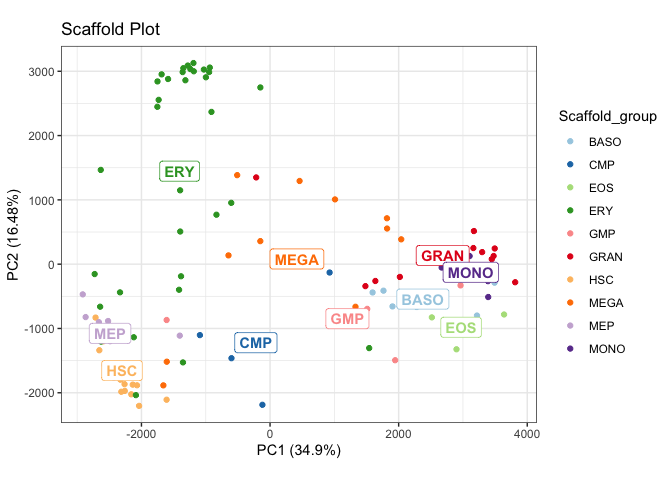
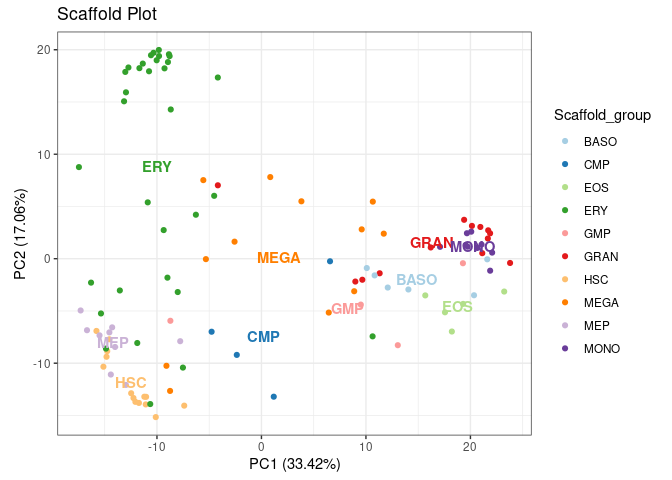
Update rank-scaling and documentation. Move uwot to suggests

diff --git a/README.md b/README.md
@@ -18,7 +18,12 @@ experimental](https://img.shields.io/badge/lifecycle-experimental-orange.svg)](h
 if (!require("BiocManager", quietly = TRUE))
     install.packages("BiocManager")
 
-BiocManager::install(c("SummarizedExperiment", "S4Vectors"))
+BiocManager::install(c("SummarizedExperiment", "S4Vectors", "BiocStyle"))
+
+# If you run into Matrix/irlba issues, 
+# try reinstalling both from source and restart your R session:
+install.packages("Matrix", type = "source")
+install.packages("irlba", type = "source")
 
 # Install spaceRATScaffolds from github
 remotes::install_github("shdam/spaceRATScaffolds", build_vignettes = TRUE)
@@ -80,7 +85,7 @@ Get a list of available prebuilt scaffolds with:
 ``` r
 library("spaceRATScaffolds")
 listScaffolds()
-#> [1] "TCGA.v1" "GTEx.v1" "DMAP.v1"
+#> [1] "TCGA.v2" "DMAP.v1" "GTEx.v1" "TCGA.v1"
 ```
 
 Project a sample of interest into a custom built or prebuilt scaffold:
@@ -91,6 +96,15 @@ data("ilaria_counts", package="spaceRATScaffolds")
 
 # Load custom or prebuilt scaffold
 scaffold <- buildScaffold("DMAP") # omitting '.vX' gets the latest version
+#> Scaffold will be removed after download.
+#> [zen4R][INFO] ZenodoRecord - Download in sequential mode 
+#> [zen4R][INFO] ZenodoRecord - Will download 1 file from record '10842509' (doi: '10.5281/zenodo.10842509') - total size: 839 KiB 
+#> [zen4R][INFO] Downloading file 'DMAP.v1.rds' - size: 839 KiB
+#> [zen4R][INFO] File downloaded at '/net/mimer/mnt/tank/projects2/shd/spaceRAT'.
+#> [zen4R][INFO] ZenodoRecord - Verifying file integrity... 
+#> [zen4R][INFO] File 'DMAP.v1.rds': integrity verified (md5sum: 1ffc9181d70a414e75458acd4bddb9f2)
+#> [zen4R][INFO] ZenodoRecord - End of download
+#> Scaffold deleted.
 
 # Project sample
 projectSample(
@@ -98,7 +112,6 @@ projectSample(
     scaffold = scaffold, 
     plot_mode = "dot",
     dims = c(1,2),
-    dimred = "PCA",
     title = "Samples projected into DMAP scaffold in PCA space")
 #> Preprocessing complete.
 #> 6 genes are added to count matrix with imputed expression level 0.

diff --git a/inst/NEWS.md b/inst/NEWS.md
@@ -1,6 +1,9 @@
 # spaceRAT 0.99.1
 
 * Return sample data in output plot
+* Update rank-scaling
+* Update documentation
+* Move uwot to suggests
 
 # spaceRAT 0.99.0
 
